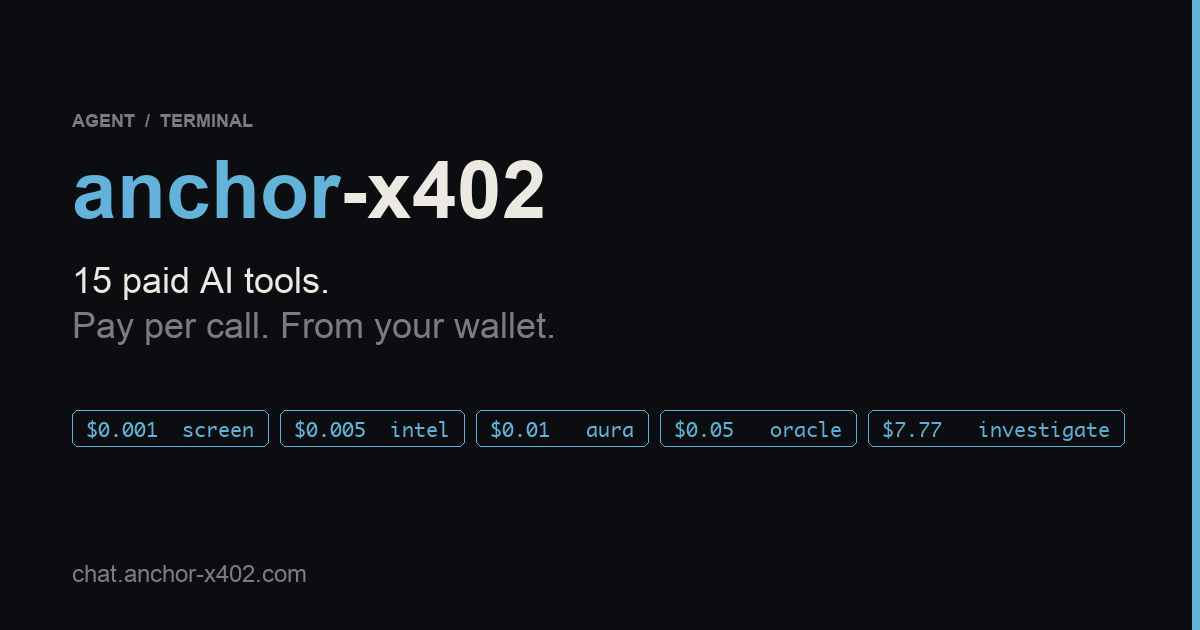
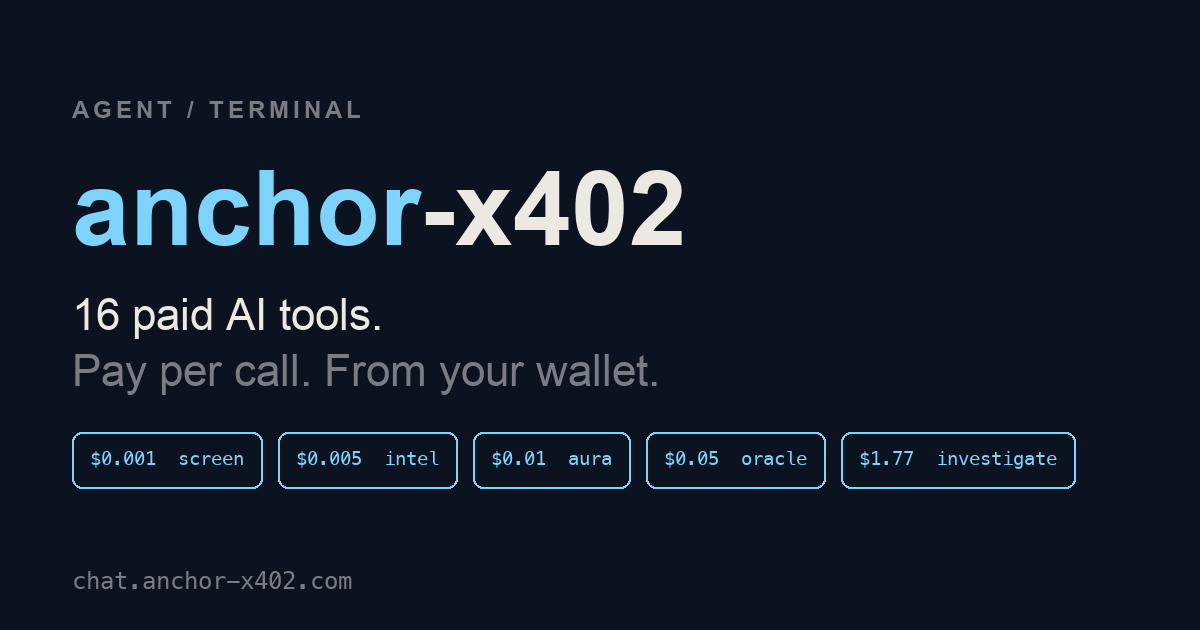
fix(og,build): regenerate social card from source + deterministic bundle gzip
og.png: add scripts/gen_og.py (there was no source, so the card drifted) and
regenerate on the blue palette with correct content — 16 tools (was 15) and
$1.77 investigate (was $7.77). Chips auto-fit one row.

build: add `gzip -n` so chat.bundle.js.gz stops churning on every build
(it was embedding the source mtime); the .gz is now content-deterministic.

diff --git a/scripts/gen_og.py b/scripts/gen_og.py
@@ -1,0 +1,100 @@
+#!/usr/bin/env python3
+"""Generate the social-share card at docs/og.png.
+
+There was no source for the card, so it drifted (stale tool count + price).
+This regenerates it from data, on the blue anchor palette. Re-run after a
+price/count change:  .venv/bin/python scripts/gen_og.py
+
+Fonts are macOS system fonts; adjust FONT_* if running elsewhere.
+"""
+from __future__ import annotations
+
+import os
+
+from PIL import Image, ImageDraw, ImageFont
+
+W, H = 1200, 630
+NAVY = (11, 18, 32, 255)        # #0b1220
+BLUE = (125, 211, 252, 255)     # #7dd3fc
+WHITE = (236, 233, 226, 255)    # #ece9e2
+GRAY = (122, 124, 132, 255)     # #7a7c84
+
+MARGIN = 72
+
+FONT_BOLD = "/System/Library/Fonts/Supplemental/Arial Bold.ttf"
+FONT_REG = "/System/Library/Fonts/Supplemental/Arial.ttf"
+FONT_MONO = "/System/Library/Fonts/Menlo.ttc"
+
+# (price, name) — representative endpoints; prices must match the catalogue.
+CHIPS = [
+    ("$0.001", "screen"),
+    ("$0.005", "intel"),
+    ("$0.01", "aura"),
+    ("$0.05", "oracle"),
+    ("$1.77", "investigate"),
+]
+TOOL_COUNT = 16
+FOOTER = "chat.anchor-x402.com"
+
+
+def _font(path: str, size: int) -> ImageFont.FreeTypeFont:
+    return ImageFont.truetype(path, size)
+
+
+def _tracked(draw, xy, text, font, fill, tracking):
+    """Draw text with extra per-character spacing (letter-spacing)."""
+    x, y = xy
+    for ch in text:
+        draw.text((x, y), ch, font=font, fill=fill)
+        x += draw.textlength(ch, font=font) + tracking
+
+
+def main() -> None:
+    img = Image.new("RGBA", (W, H), NAVY)
+    d = ImageDraw.Draw(img)
+
+    f_eyebrow = _font(FONT_BOLD, 24)
+    f_head = _font(FONT_BOLD, 104)
+    f_sub = _font(FONT_REG, 44)
+    f_foot = _font(FONT_MONO, 24)
+
+    # eyebrow
+    _tracked(d, (MARGIN, 96), "AGENT / TERMINAL", f_eyebrow, GRAY, 4)
+
+    # headline: "anchor" blue + "-x402" white
+    hy = 150
+    d.text((MARGIN, hy), "anchor", font=f_head, fill=BLUE)
+    ax = MARGIN + d.textlength("anchor", font=f_head)
+    d.text((ax, hy), "-x402", font=f_head, fill=WHITE)
+
+    # subheads
+    d.text((MARGIN, 290), f"{TOOL_COUNT} paid AI tools.", font=f_sub, fill=WHITE)
+    d.text((MARGIN, 346), "Pay per call. From your wallet.", font=f_sub, fill=GRAY)
+
+    # chips — auto-shrink the font so all chips fit one row within the margins
+    cy, ch_h, gap, pad = 432, 56, 16, 18
+    labels = [f"{price}  {name}" for price, name in CHIPS]
+    avail = W - 2 * MARGIN
+    for size in range(24, 13, -1):
+        f_chip = _font(FONT_MONO, size)
+        widths = [d.textlength(s, font=f_chip) + pad * 2 for s in labels]
+        if sum(widths) + gap * (len(labels) - 1) <= avail:
+            break
+    cx = MARGIN
+    for label, cw in zip(labels, widths):
+        d.rounded_rectangle([cx, cy, cx + cw, cy + ch_h], radius=10, outline=BLUE, width=2)
+        bb = f_chip.getbbox(label)
+        ty = cy + (ch_h - (bb[3] - bb[1])) / 2 - bb[1]
+        d.text((cx + pad, ty), label, font=f_chip, fill=BLUE)
+        cx += cw + gap
+
+    # footer
+    d.text((MARGIN, H - 64), FOOTER, font=f_foot, fill=GRAY)
+
+    out = os.path.join(os.path.dirname(__file__), "..", "docs", "og.png")
+    img.save(os.path.abspath(out))
+    print("wrote", os.path.abspath(out))
+
+
+if __name__ == "__main__":
+    main()